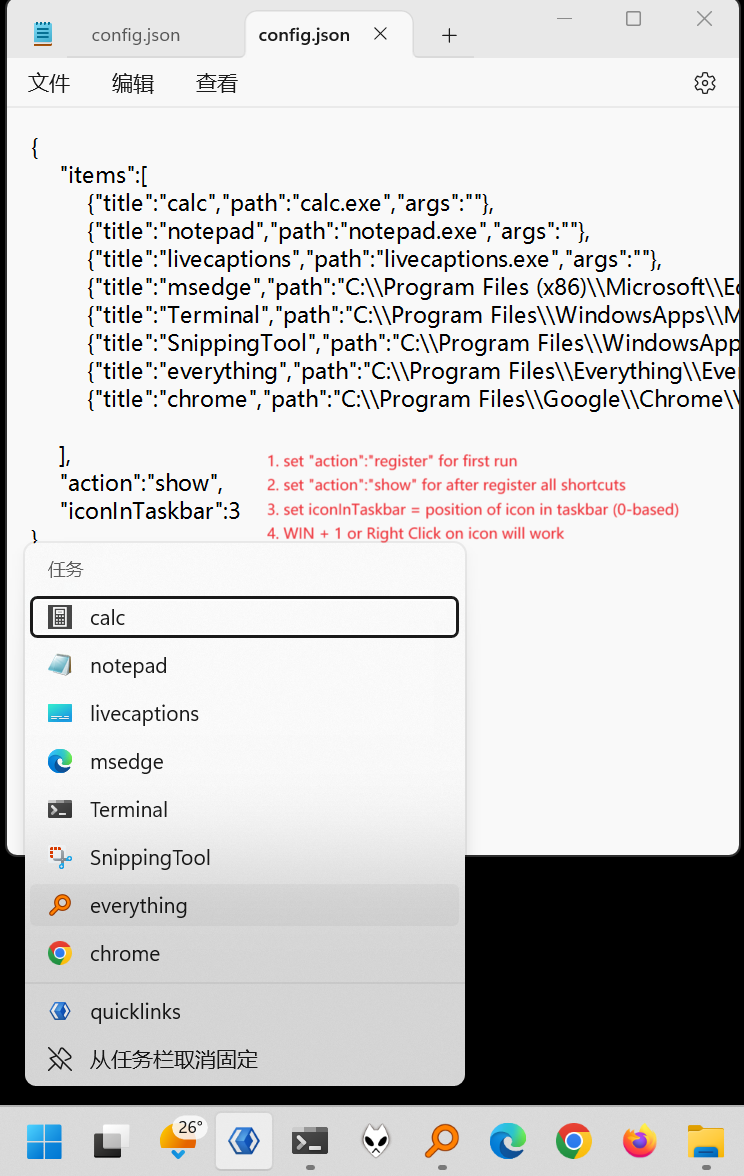
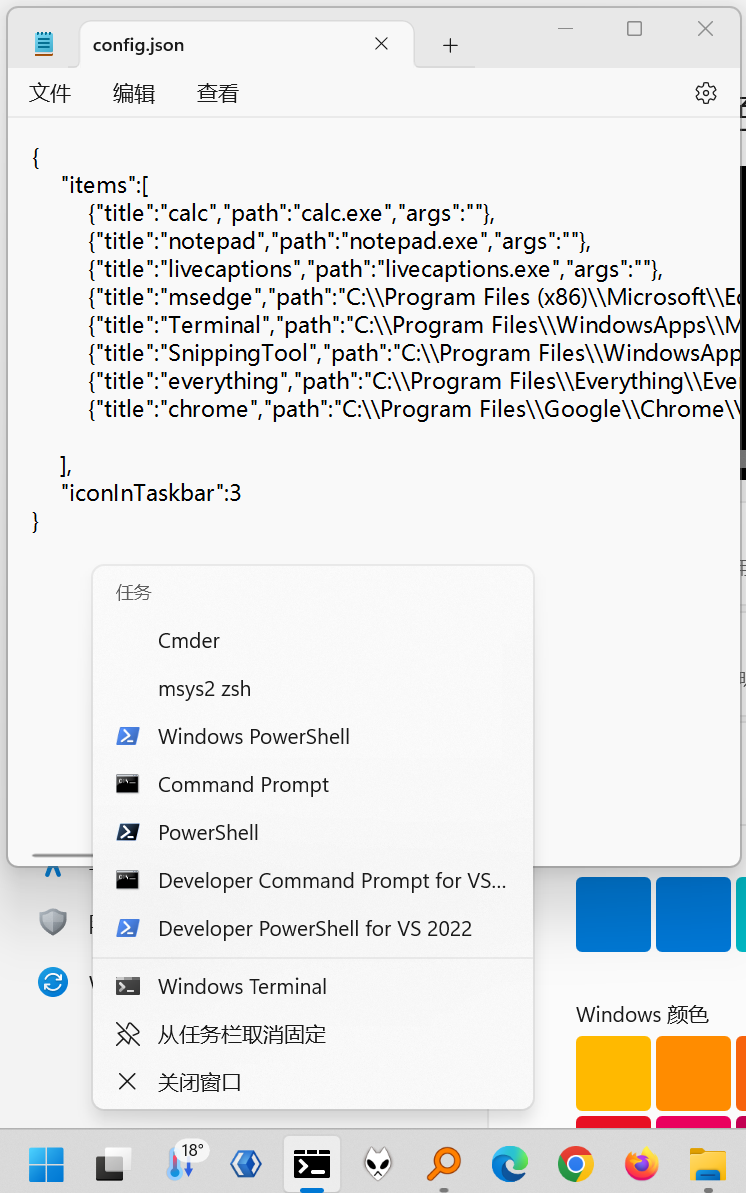
change to check hash file

diff --git a/src/main.cpp b/src/main.cpp
@@ -3,7 +3,8 @@ using namespace winrt;
 using namespace winrt::Windows::Foundation;
 using json = nlohmann::json;
 
-namespace ns {
+namespace ns
+{
     struct Item
     {
         std::string title;
@@ -13,25 +14,21 @@ namespace ns {
 
     struct Config
     {
-        //std::string category;
         std::vector<Item> items;
-        std::string action;
-        u_short iconInTaskbar;
+        u_short iconInTaskbar = 0;
     };
 
-    void from_json(const json& j, Item& p)
+    void from_json(const json &j, Item &p)
     {
         j.at("title").get_to(p.title);
         j.at("path").get_to(p.path);
         j.at("args").get_to(p.args);
     }
 
-    void from_json(const json& j, Config& p)
+    void from_json(const json &j, Config &p)
     {
-        //j.at("category").get_to(p.category);
         j.at("items").get_to(p.items);
-        j.at("action").get_to(p.action);
-        j.at("iconInTaskbar").get_to(p.iconInTaskbar);        
+        j.at("iconInTaskbar").get_to(p.iconInTaskbar);
     }
 }
 
@@ -43,11 +40,16 @@ public:
         winrt::init_apartment();
     }
     ~Engine() { winrt::uninit_apartment(); }
-    HRESULT CreateJumpList(const ns::Config& config)
+    Engine(const Engine &) = delete;
+    Engine &operator=(const Engine &) = delete;
+    Engine(Engine &&) = delete;
+    Engine &operator=(Engine &&) = delete;
+
+    static HRESULT CreateJumpList(const ns::Config &config)
     {
         auto customDestinationList = wil::CoCreateInstance<ICustomDestinationList, wil::err_returncode_policy>(CLSID_DestinationList);
 
-        UINT maxSlots;
+        UINT maxSlots{};
         winrt::com_ptr<IObjectArray> removedItems;
         RETURN_IF_FAILED(customDestinationList->BeginList(&maxSlots, IID_PPV_ARGS(removedItems.put())));
 
@@ -55,21 +57,20 @@ public:
         auto objectCollection = wil::CoCreateInstance<IObjectCollection, wil::err_returncode_policy>(CLSID_EnumerableObjectCollection);
 
         // Add tasks to the custom category
-        for(auto& item: config.items)
+        for (const auto &item : config.items)
         {
             AddTaskToCollection(objectCollection.get(),
                                 string_to_w(item.title).c_str(),
                                 string_to_w(item.path).c_str(),
-                                string_to_w(item.args).c_str()
-            );
+                                string_to_w(item.args).c_str());
         }
 
         auto objectArray = objectCollection.try_query<IObjectArray>();
-        auto hr = customDestinationList->AddUserTasks(objectArray.get());
+        HRESULT hr = customDestinationList->AddUserTasks(objectArray.get());
         customDestinationList->CommitList();
         return hr;
     }
-    void ShowMenu(u_short nth)
+    static void ShowMenu(u_short nth)
     {
         POINT pt = GetTaskBarPoint(nth);
         POINT ptCur{};
@@ -78,18 +79,50 @@ public:
         ShowCursor(FALSE);
         SetCursorPos(pt.x, pt.y);
 
-        INPUT inputs[2] = {};
+        //std::array<INPUT, 2> inputs{};
+        INPUT inputs[2] = {}; //NOLINT
         inputs[0].type = INPUT_MOUSE;
-        inputs[0].mi.dwFlags = MOUSEEVENTF_RIGHTDOWN;
+        inputs[0].mi.dwFlags = MOUSEEVENTF_RIGHTDOWN; //NOLINT
         inputs[1].type = INPUT_MOUSE;
-        inputs[1].mi.dwFlags = MOUSEEVENTF_RIGHTUP;
+        inputs[1].mi.dwFlags = MOUSEEVENTF_RIGHTUP; //NOLINT
 
-        SendInput(2, inputs, sizeof(INPUT));
+        SendInput(2, inputs, sizeof(INPUT));        //NOLINT
+        //SendInput(2, inputs.data(), inputs.size());
         SetCursorPos(ptCur.x, ptCur.y);
         ShowCursor(TRUE);
-    }    
+    }
+
+    static bool ConfigChanged(const json &jsonConfig)
+    {
+        bool changed{true};
+        size_t hash_in_file{0};
+        std::ifstream iff{"quicklinks.hash"};
+
+        std::hash<std::string> hasher;
+        size_t hash_value = hasher(jsonConfig.at("items").dump());
+
+        if (iff.is_open())
+        {
+            iff >> hash_in_file;
+            iff.close();
+            if (hash_value == hash_in_file)
+            {
+                changed = false;
+            }
+        }
+
+        if (changed)
+        {
+            std::ofstream of{"quicklinks.hash"};
+            of << hash_value;
+            of.close();
+        }
+        return changed;
+    }
+
 private:
-    HRESULT AddTaskToCollection(IObjectCollection *collection, LPCWSTR title, LPCWSTR appPath, LPCWSTR args)
+    // NOLINTNEXTLINE(readability-function-cognitive-complexity,bugprone-easily-swappable-parameters)
+    static HRESULT AddTaskToCollection(IObjectCollection *collection, LPCWSTR title, LPCWSTR appPath, LPCWSTR args)
     {
         // use wil::err_returncode_policy to return hresult fast.
         auto shellLink = wil::CoCreateInstance<IShellLink, wil::err_returncode_policy>(CLSID_ShellLink);
@@ -105,45 +138,59 @@ private:
         }
         return collection->AddObject(shellLink.get());
     }
-    std::wstring string_to_w(const std::string& str)
+    static std::wstring string_to_w(const std::string &str)
     {
-        return std::wstring(str.begin(), str.end());
+        return {str.begin(), str.end()};
     }
     // https://windhawk.net/mods/taskbar-icon-size
     // Icon size: 24x24, taskbar height: 48 (Windows 11 default)
     // width each Icon edge = 44, edge of first = 10
-    POINT GetTaskBarPoint(u_short nth)
+    static POINT GetTaskBarPoint(u_short nth)
     {
+        POINT value{};
         APPBARDATA abd = {sizeof(APPBARDATA)};
-        UINT position = SHAppBarMessage(ABM_GETTASKBARPOS, &abd);
+        SHAppBarMessage(ABM_GETTASKBARPOS, &abd);
         if (abd.uEdge == ABE_TOP || abd.uEdge == ABE_BOTTOM)
-            return POINT{abd.rc.left + (10 + 22 + 44 * nth), abd.rc.top + 24};
+        {
+            value = POINT{(abd.rc.left + (10 + 22 + 44 * nth)), (abd.rc.top + 24)}; // NOLINT
+        }
         else
-            return POINT{abd.rc.left + 24, abd.rc.top + (10 + 22 + 44 * nth)};
-    }    
+        {
+            value = POINT{(abd.rc.left + 24), (abd.rc.top + (10 + 22 + 44 * nth))}; // NOLINT
+        }
+        return value;
+    }
 };
 
-int WinMain(HINSTANCE, HINSTANCE, LPSTR, int)
+// NOLINTNEXTLINE(bugprone-easily-swappable-parameters)
+int WinMain(HINSTANCE hInstance, HINSTANCE hPrevInstance, LPSTR lpCmdLine, int nShowCmd)
 {
     Engine eng;
     std::ifstream f("config.json");
     if (f.is_open())
     {
-        json data = json::parse(f,nullptr,false);
-        if(!data.is_null())
+        json data = json::parse(f, nullptr, false);
+        if (!data.is_null())
         {
             ns::Config config = data.get<ns::Config>();
-            if(config.action.compare("show")==0){
-                eng.ShowMenu(config.iconInTaskbar);
-                return 0;
-            }            
-            HRESULT hr = eng.CreateJumpList(config);
-            if(S_OK == hr){
-                MessageBox(nullptr,L"Successfully updated shortcuts",L"Shortcuts",MB_OK|MB_ICONINFORMATION);
+            if (!Engine::ConfigChanged(data))
+            {
+                // if no changed, show menu
+                Engine::ShowMenu(config.iconInTaskbar);
             }
-            else{
-                MessageBox(nullptr,L"Failed updated shortcuts",L"Shortcuts",MB_OK|MB_ICONERROR);
-             }
+            else
+            {
+                // if config changed, register it in JumpList
+                HRESULT hr = Engine::CreateJumpList(config);
+                if (S_OK == hr)
+                {
+                    MessageBox(nullptr, L"Successfully updated shortcuts", L"Shortcuts", MB_OK | MB_ICONINFORMATION);
+                }
+                else
+                {
+                    MessageBox(nullptr, L"Failed updated shortcuts", L"Shortcuts", MB_OK | MB_ICONERROR);
+                }
+            }
         }
     }
     return 0;

diff --git a/README.md b/README.md
@@ -4,15 +4,34 @@ Create Quick Links/Shortcut in Taskbar for windows 11, you can define your links
 ## Compile 
 open directory & cmake configure & cmake build, using vs code with cmake plugin and VS Build Tools 2022 installed.
 
+you should use cmake of MS VS Build Tools 2022, it is normally at 
+
+```cmd
+"C:\Program Files (x86)\Microsoft Visual Studio\2022\BuildTools\Common7\IDE\CommonExtensions\Microsoft\CMake\CMake\bin\cmake.exe"
+```
+
+Compile as following
+
+```cmd
+cmake -DCMAKE_TOOLCHAIN_FILE=vcpkg/scripts/buildsystems/vcpkg.cmake -S. -Bbuilds/vs-multi-vcpkg -G "Ninja Multi-Config"
+
+cmake.exe --build builds/vs-multi-vcpkg --config Debug --target quicklinks
+```
+
 ## Usage
 
 - Run Quicklinks.exe (with config.json in same directory)
-- Pin Quicklinks.exe in frist/or other position of taskbar, and set as "action":"show" in config.json
-- Right click the icon in taskbar, or WIN+1
+- Pin Quicklinks.exe in frist/or other position of taskbar
+- Right click the icon in taskbar, or WIN+\<number>
 
 ## Screen 
 
 ![screen](./docs/image.png)
+
+## KnownIssue
+
+- WIN+\<number> does not work well, if the taskbar alignment is centered.
+- WIN+\<number> does not work well, if secondary monitor.
 
 ## License
 
